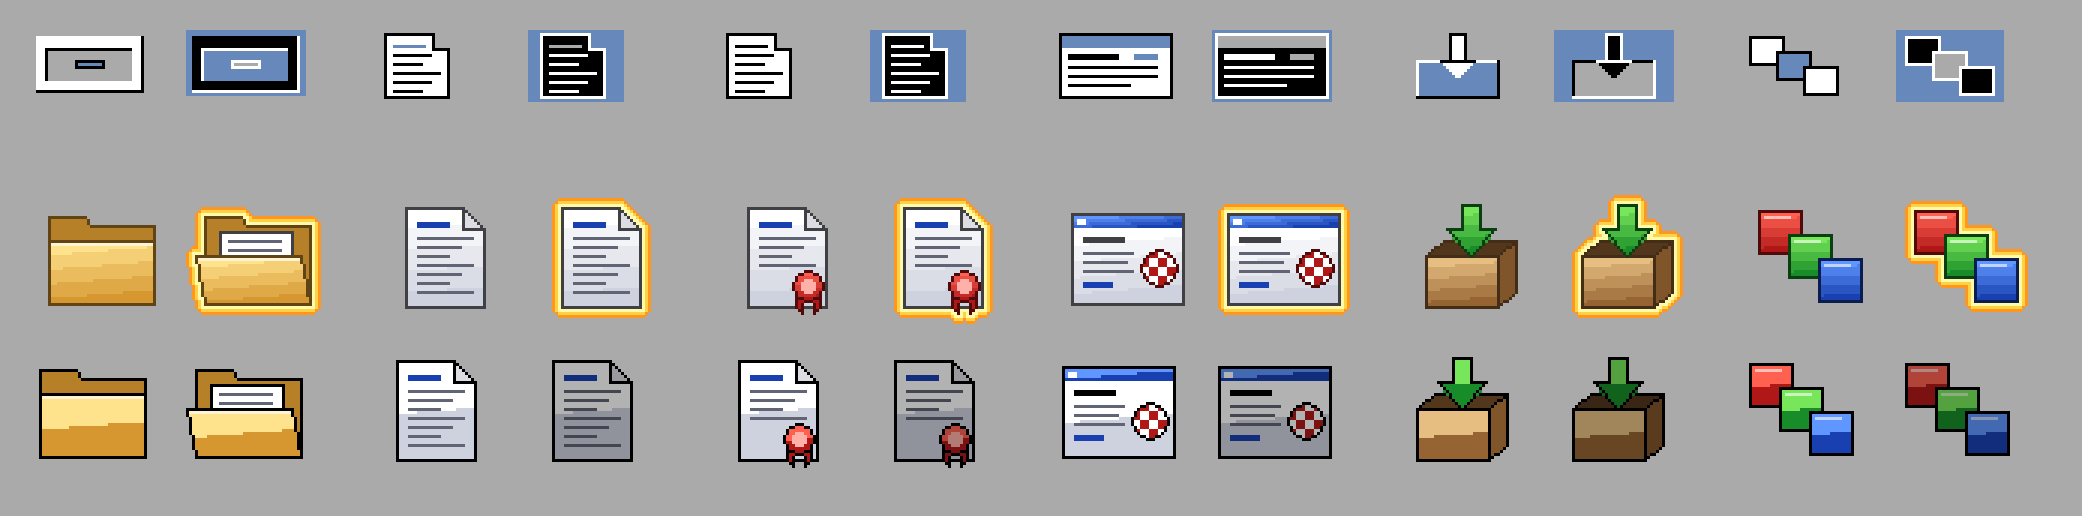
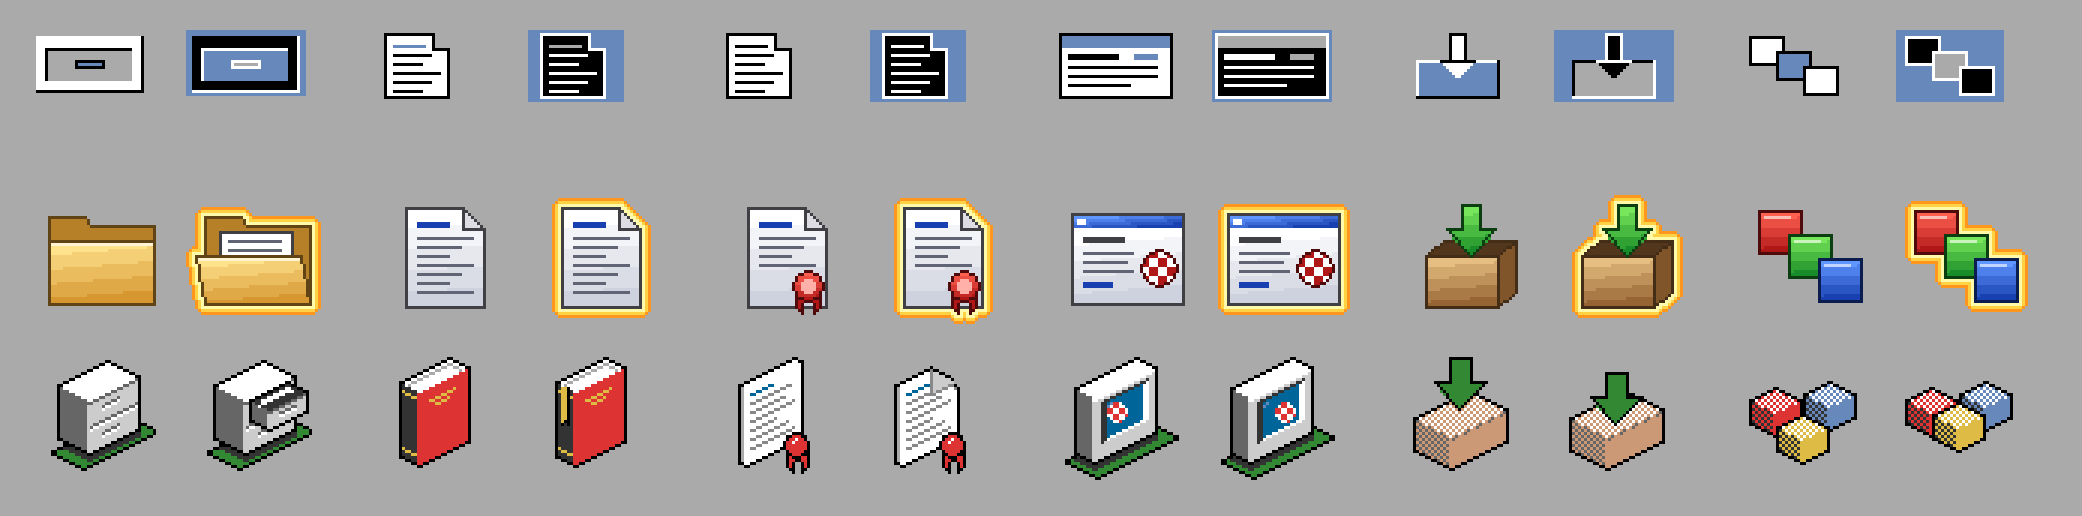
NewIcons in the style of the NewIcons package
Drawn with its palette: isometric objects with staircase edges (Box),
drawers and tools on a platform, upright documents and book. Selected
icons show a slightly changed picture instead of a darker one: open
drawer, dog ear, bookmark, moved ball, arrow on its way. Own motifs, no
pixels from the package.

diff --git a/tools/mkicons.py b/tools/mkicons.py
@@ -7,7 +7,9 @@
 #   Classic    4 colour planar image (Workbench 2.x/3.x palette)
 #   GlowIcons  OS 3.5+ colour icon: IFF FORM ICON appended to the DiskObject,
 #              selected image with the typical orange glow
-#   NewIcons   colour image encoded in IM1=/IM2= tool types
+#   NewIcons   colour image encoded in IM1=/IM2= tool types, drawn in the
+#              style of the NewIcons package: isometric objects, staircase
+#              edges, its 16 colour palette, objects on a platform
 # Glow and NewIcons icons keep the classic picture as planar fallback image.
 #
 # Run directly (or "make icons") to write sample icons of all styles to
@@ -205,15 +207,13 @@ def inside(pts, x, y):
 # ------------------------------------------------------------- styles ---
 
 class Style:
-    """ GlowIcons: soft gradients, outlines in a dark shade of the colour.
-        NewIcons:  black outlines, two tones per colour (few colours). """
-    def __init__(self, glow):
-        self.glow = glow
+    """ GlowIcons: soft gradients, outlines in a dark shade of the colour """
+    glow = True
 
     def ramp(self, light, dark):
         """ shading function for a box: light at the top, dark at the bottom
-            (slightly darker to the right), 5 (Glow) or 2 (NewIcons) tones """
-        steps = 5 if self.glow else 2
+            (slightly darker to the right), 5 tones                         """
+        steps = 5
         tones = [mix(light, dark, i / (steps - 1)) for i in range(steps)]
 
         def shade(x0, y0, x1, y1):
@@ -225,7 +225,7 @@ class Style:
         return shade
 
     def line(self, c):
-        return dim(c, 0.45) if self.glow else BLACK
+        return dim(c, 0.45)
 
 
 BLACK = (0, 0, 0)
@@ -277,7 +277,7 @@ def m_demo(s, c):
     c.rect(3, 5, 38, 8, s.ramp(*BLUE)(3, 5, 38, 8))
     c.rect(4, 6, 6, 7, WHITE)
     c.rect(3, 9, 38, 33, s.ramp(WHITE, PAPER[1])(3, 9, 38, 33))
-    c.rect(6, 12, 19, 13, s.line(GREY[1]) if s.glow else BLACK)
+    c.rect(6, 12, 19, 13, s.line(GREY[1]))
     for y, x1 in ((17, 22), (20, 20), (23, 22)):
         c.line(6, y, x1, y, TEXT)
     c.line(6, 27, 15, 27, BLUE[1])
@@ -306,19 +306,18 @@ def m_tiles(s, c):
 MOTIFS = {'drawer': m_drawer, 'readme': m_page, 'license': lambda s, c: m_page(s, c, True),
           'demo': m_demo, 'install': m_install, 'tiles': m_tiles}
 
-W, H = 42, 38          # motif size; NewIcons need a width that is a multiple of 14
+W, H = 42, 38          # motif size of the GlowIcons
 GLOW_MARGIN = 3
 
 
-def draw(role, glow, selected):
-    s = Style(glow)
+def draw(role, selected):
+    """ the GlowIcons picture of a role """
+    s = Style()
     c = RGB(W, H)
     if role == 'drawer':
         m_drawer(s, c, opened=selected)
     else:
         MOTIFS[role](s, c)
-    if not glow:
-        return c
     g = RGB(W + 2 * GLOW_MARGIN, H + 2 * GLOW_MARGIN)
     for y in range(H):
         for x in range(W):
@@ -340,6 +339,233 @@ def add_glow(c):
                          if abs(x - a) <= 3 and abs(y - b) <= 3), default=9)
                 if d <= 3.2:
                     c.p[y][x] = GLOW[0 if d <= 1.5 else 1 if d <= 2.3 else 2]
+
+
+# ------------------------------------------------- NewIcons pictures ---
+# The palette of the NewIcons package. Objects are seen from above at the
+# left, edges rise 1 row per 2 columns; every slanted edge is a staircase
+# of 2 pixel pairs, outlines black. Top faces white, the left side dark,
+# the right side light; mixed tones are checkered. Tools and drawers stand
+# on a platform, file formats get a straight label (like "IFF").
+
+N_GREEN, N_YELLOW, N_RED = (51, 136, 51), (221, 187, 68), (221, 51, 51)
+N_G136, N_G102, N_G204 = (136, 136, 136), (102, 102, 102), (204, 204, 204)
+N_TAN, N_BLUE, N_G51 = (204, 153, 119), (0, 102, 153), (51, 51, 51)
+N_G170, N_LBLUE = (170, 170, 170), (102, 136, 187)
+
+NW, NH = 42, 42        # NewIcons size; the width is a multiple of 14 (see below)
+
+
+def checker(a, b):
+    return lambda x, y: a if (x + y) & 1 else b
+
+
+def tone(f, x, y):
+    return f(x, y) if callable(f) else f
+
+
+class Box:
+    """ isometric box, drawn column by column. (x0, y0) is the left corner
+        of the top face, a the rows of its upper left edge, b of its lower
+        left edge, h the height of the sides.                             """
+    def __init__(self, x0, y0, a, b, h):
+        self.x0, self.y0, self.a, self.b, self.h = x0, y0, a, b, h
+        self.w = 2 * (a + b) + 2
+
+    def ytop(self, u):
+        k = u // 2
+        return self.y0 - k if k <= self.a else self.y0 - self.a + (k - self.a)
+
+    def ymid(self, u):
+        """ lower edge of the top face in column u """
+        k = u // 2
+        return self.y0 + k if k <= self.b else self.y0 + self.b - (k - self.b)
+
+    def bottom(self, u):
+        return self.ymid(u) + self.h + 1
+
+    def right(self, u):
+        return u // 2 >= self.b
+
+    def draw(self, c, top, left, right, edge=None, outline=BLACK):
+        """ edge: the first row of the right side (below the top face) """
+        for u in range(self.w):
+            x, yt, ym = self.x0 + u, self.ytop(u), self.ymid(u)
+            side = u in (0, self.w - 1)
+            for y in range(yt, ym + self.h + 2):
+                if y == yt or y == ym + self.h + 1 or side:
+                    p = outline
+                elif y <= ym:
+                    p = tone(top, x, y)
+                elif self.right(u):
+                    p = tone(edge if edge and y == ym + 1 else right, x, y)
+                else:
+                    p = tone(left, x, y)
+                c.put(x, y, p)
+
+    def face_line(self, c, t, u0, u1, colour):
+        """ a line on the right side, t rows below its top, columns u0..u1 """
+        for u in range(u0, u1 + 1):
+            if self.right(u):
+                c.put(self.x0 + u, self.ymid(u) + t, colour)
+
+    def top_line(self, c, t, u0, u1, colour):
+        """ a line on the top face along its upper left edge, t rows below """
+        for u in range(u0, u1 + 1):
+            c.put(self.x0 + u, self.ytop(u) + t, colour)
+
+
+def platform(c, x0, y0, a, b, box, colour=N_GREEN, shadow=2):
+    """ the flat base under a box, with the box's shadow along its bottom """
+    p = Box(x0, y0, a, b, 0)
+    p.draw(c, colour, colour, colour)
+    for u in range(box.w):
+        x = box.x0 + u
+        pu = x - p.x0
+        if 0 < pu < p.w - 1:
+            for y in range(box.bottom(u) + 1, box.bottom(u) + 1 + shadow):
+                if p.ytop(pu) < y <= p.ymid(pu):
+                    c.put(x, y, N_G51)
+
+
+def n_drawer(c, sel):
+    """ a filing cabinet with two drawers; selected: the upper one is
+        pulled out, papers in it                                          """
+    box = Box(9, 10, 8, 5, 17)
+    platform(c, 7, 32, 12, 5, box)
+    box.draw(c, WHITE, N_G102, N_G204, edge=N_G102)
+    box.face_line(c, 9, 11, box.w - 2, N_G102)            # groove
+    box.face_line(c, 10, 11, box.w - 2, WHITE)
+    for t in ((13,) if sel else (4, 13)):                 # handles
+        box.face_line(c, t, 15, 20, N_G102)
+        box.face_line(c, t + 1, 15, 20, WHITE)
+    if sel:
+        # the drawer: 3 steps out of the front, over the upper half
+        bx, by = box.x0 + 2 * box.b + 2, box.ymid(2 * box.b + 2) + 1
+        d = Box(bx, by, box.a - 2, 3, 6)
+        d.draw(c, N_G51, N_G102, N_G204, edge=N_G102)
+        d.top_line(c, 2, 4, d.w - 6, WHITE)               # papers inside
+        d.top_line(c, 3, 3, d.w - 7, WHITE)
+        d.face_line(c, 3, 10, 15, N_G102)                 # its handle
+        d.face_line(c, 4, 10, 15, WHITE)
+
+
+def n_monitor(c, screen, sel):
+    """ a monitor: thin housing, bezel; screen(c, box, u0, u1, t0, t1, sel)
+        draws on the glass                                                """
+    box = Box(6, 11, 10, 3, 21)
+    platform(c, 3, 35, 13, 5, box)
+    box.draw(c, WHITE, N_G102, N_G204, edge=WHITE)
+    u0, u1, t0, t1 = 9, box.w - 4, 3, 16
+    for u in range(u0, u1 + 1):
+        x, y0 = box.x0 + u, box.ymid(u)
+        for t in range(t0, t1 + 1):
+            if u in (u0, u0 + 1) or t == t0:
+                p = N_G51
+            elif u in (u1 - 1, u1) or t == t1:
+                p = WHITE
+            else:
+                p = N_BLUE
+            c.put(x, y0 + t, p)
+    box.face_line(c, t0 + 2, u0 + 2, u0 + 3, N_LBLUE)    # glint
+    screen(c, box, u0 + 2, u1 - 2, t0 + 1, t1 - 1, sel)
+
+
+def n_demo(c, sel):
+    """ selected: the ball has bounced on """
+    def boing(c, box, u0, u1, t0, t1, sel):
+        u = (u0 + u1) // 2 + (2 if sel else -2)          # radius 3: stays on the glass
+        cx, cy = box.x0 + u, box.ymid(u) + (t0 + t1) // 2 + (2 if sel else 0)
+        c.disc(cx, cy, 3, lambda x, y: N_RED if ((x - cx + 9) // 2 + (y - cy + 9) // 2) % 2 else WHITE)
+    n_monitor(c, boing, sel)
+
+
+def n_sheet(c, sel):
+    """ an upright sheet of paper with lines of text on its face;
+        selected: a dog ear at its upper right corner                     """
+    s = Box(8, 10, 9, 1, 25)
+    s.draw(c, WHITE, N_G170, WHITE)
+    s.face_line(c, 3, 4, 11, N_BLUE)                      # heading
+    for i, t in enumerate(range(6, s.h - 1, 3)):
+        s.face_line(c, t, 4, (17, 15, 18, 12, 16, 18, 10)[i % 7], N_G136)
+    if sel:
+        # dog ear: the corner cut along a fold that starts on the top edge;
+        # below the fold the folded part, grey, widest at its left
+        f = 5
+        for d in range(2 * f):                            # d: columns from the right
+            u = s.w - 1 - d
+            x, top = s.x0 + u, s.ytop(u)                  # top: the outline row
+            fold = top + 2 * f - 1 - d
+            for y in range(top, fold):
+                c.put(x, y, None)                         # cut off
+            c.put(x, fold, BLACK)
+            depth = d                                     # the bottom parallel to the top edge
+            for y in range(fold + 1, fold + 1 + depth):
+                c.put(x, y, N_G136 if y == fold + depth or d == 2 * f - 1 else N_G204)
+    return s
+
+
+def n_readme(c, sel):
+    """ an upright book: red cover with a title, the spine on the left,
+        the pages at the top; selected: a bookmark over the spine         """
+    book = Box(9, 9, 8, 3, 24)
+    book.draw(c, WHITE, N_G51, N_RED, edge=N_RED)
+    book.top_line(c, 2, 3, 2 * (book.a + book.b) - 2, N_G170)      # pages
+    book.face_line(c, 5, 10, 18, N_YELLOW)                          # title
+    book.face_line(c, 7, 12, 16, N_YELLOW)
+    for t in (3, book.h - 2):                                       # bands on the spine
+        for u in range(1, 2 * book.b):
+            c.put(book.x0 + u, book.ymid(u) + t, N_YELLOW)
+    if sel:
+        # from the spine's top edge (below ymid), flat down the spine
+        for u in range(2, 5):
+            x, y0, y1 = book.x0 + u, book.ymid(u) + (0 if u == 4 else 1), book.ymid(u) + 12
+            for y in range(y0, y1 + 1):
+                c.put(x, y, BLACK if u == 4 else N_YELLOW)
+            c.put(x, y1 + 1, BLACK if u == 2 else N_G51)
+        c.put(book.x0 + 3, book.ymid(3) + 12, BLACK)      # notched end
+        c.put(book.x0 + 4, book.ymid(4) + 12, BLACK)
+
+
+def n_seal(c, x, y):
+    """ the red seal with its two ribbons, centre (x, y) """
+    c.poly([(x - 3, y + 2), (x, y + 2), (x - 1, y + 9), (x - 3, y + 7)], N_RED, BLACK)
+    c.poly([(x + 1, y + 2), (x + 4, y + 2), (x + 4, y + 7), (x + 2, y + 9)], N_RED, BLACK)
+    c.disc(x, y, 4, N_RED, BLACK)
+    c.put(x - 1, y - 1, WHITE)
+    c.put(x, y - 2, WHITE)
+
+
+def n_license(c, sel):
+    n_sheet(c, sel)
+    n_seal(c, 27, 30)
+
+
+def n_install(c, sel):
+    """ selected: the arrow is on its way into the box """
+    box = Box(5, 21, 9, 6, 10)
+    box.draw(c, checker(N_TAN, WHITE), checker(N_TAN, N_G102), N_TAN, edge=checker(N_TAN, N_G102))
+    d = 5 if sel else 0
+    c.poly([(17, 1 + d), (24, 1 + d), (24, 9 + d), (29, 9 + d), (20, 18 + d), (12, 9 + d), (17, 9 + d)],
+           N_GREEN, BLACK)
+
+
+def n_tiles(c, sel):
+    """ selected: the yellow cube hops up """
+    for x, y, col in ((3, 15, N_RED), (21, 13, N_LBLUE), (12, 24 - (4 if sel else 0), N_YELLOW)):
+        Box(x, y, 4, 4, 7).draw(c, checker(col, WHITE), checker(col, N_G51), col)
+
+
+NI_MOTIFS = {'drawer': n_drawer, 'readme': n_readme, 'license': n_license,
+             'demo': n_demo, 'install': n_install, 'tiles': n_tiles}
+
+
+def ni_draw(role, selected):
+    """ the NewIcons picture of a role; selected: the slightly changed one
+        NewIcons show instead of a darker picture                          """
+    c = RGB(NW, NH)
+    NI_MOTIFS[role](c, selected)
+    return c
 
 
 # ------------------------------------------------------ GlowIcons (IFF) ---
@@ -437,12 +663,6 @@ def ni_tooltypes(normal, selected):
         tuple(ni_image('IM1=', normal) + ni_image('IM2=', selected))
 
 
-def ni_pressed(img):
-    c = img.copy()
-    c.p = [[None if v is None else dim(v, 0.7) for v in row] for row in c.p]
-    return c
-
-
 # --------------------------------------------------------- DiskObject ---
 
 def diskobject(kind, pic, default_tool=None, tooltypes=(), stack=0, extra=b''):
@@ -486,12 +706,11 @@ def diskobject(kind, pic, default_tool=None, tooltypes=(), stack=0, extra=b''):
 def make_icon(style, role, kind, default_tool=None, tooltypes=(), stack=0):
     pic = CLASSIC[role]()
     if style == 'GlowIcons':
-        extra = glow_form(draw(role, True, False), draw(role, True, True))
+        extra = glow_form(draw(role, False), draw(role, True))
         return diskobject(kind, pic, default_tool, tooltypes, stack, extra)
     if style == 'NewIcons':
-        n = draw(role, False, False)
-        sel = draw(role, False, True) if role == 'drawer' else ni_pressed(n)
-        return diskobject(kind, pic, default_tool, tuple(tooltypes) + ni_tooltypes(n, sel), stack)
+        tt = ni_tooltypes(ni_draw(role, False), ni_draw(role, True))
+        return diskobject(kind, pic, default_tool, tuple(tooltypes) + tt, stack)
     return diskobject(kind, pic, default_tool, tooltypes, stack)
 
 
@@ -518,7 +737,7 @@ def classic_rgb(pic, selected):
 
 def preview(path, scale=3):
     roles = list(MOTIFS)
-    cell_w, cell_h, gap = 2 * (W + 2 * GLOW_MARGIN) + 8, H + 2 * GLOW_MARGIN, 10
+    cell_w, cell_h, gap = 2 * (W + 2 * GLOW_MARGIN) + 8, max(H + 2 * GLOW_MARGIN, NH), 10
     pw = (cell_w + gap) * len(roles) + gap
     ph = (cell_h + gap) * len(STYLES) + gap
     bg = WB_PEN[0]
@@ -529,10 +748,9 @@ def preview(path, scale=3):
                 if style == 'Classic':
                     img = classic_rgb(CLASSIC[role](), sel)
                 elif style == 'GlowIcons':
-                    img = draw(role, True, sel)
+                    img = draw(role, sel)
                 else:
-                    img = draw(role, False, False)
-                    img = (draw(role, False, True) if role == 'drawer' else ni_pressed(img)) if sel else img
+                    img = ni_draw(role, sel)
                 ox = gap + k * (cell_w + gap) + sel * (cell_w // 2)
                 oy = gap + r * (cell_h + gap)
                 for y in range(img.h):

diff --git a/CLAUDE.md b/CLAUDE.md
@@ -86,4 +86,8 @@ Aufbau, Features und Build sind in `README.de.md` beschrieben.
   `Icons/<Stil>/`). Die Dateien in `icons/` sind Beispiele zum Ansehen auf dem Amiga und
   werden mit `make icons` neu erzeugt, nie von Hand bearbeitet.
 - NewIcons: Bildbreite 42 und 14 Farben sind Absicht (Paletten- und Zeilenenden fallen
-  auf 7-Bit-Grenzen), siehe Kommentare in `mkicons.py`.
+  auf 7-Bit-Grenzen), siehe Kommentare in `mkicons.py`. Gezeichnet im Stil des
+  NewIcons-Pakets (`Box`: isometrisch, Treppenkanten aus Pixelpaaren, Palette des Pakets,
+  Werkzeuge und Schubladen auf einem Sockel), eigene Motive, keine Pixel aus dem Paket.
+  Ausgewählt zeigen NewIcons ein leicht geändertes Bild, kein abgedunkeltes: jedes Motiv
+  in `NI_MOTIFS` zeichnet beide Zustände (`sel`).
